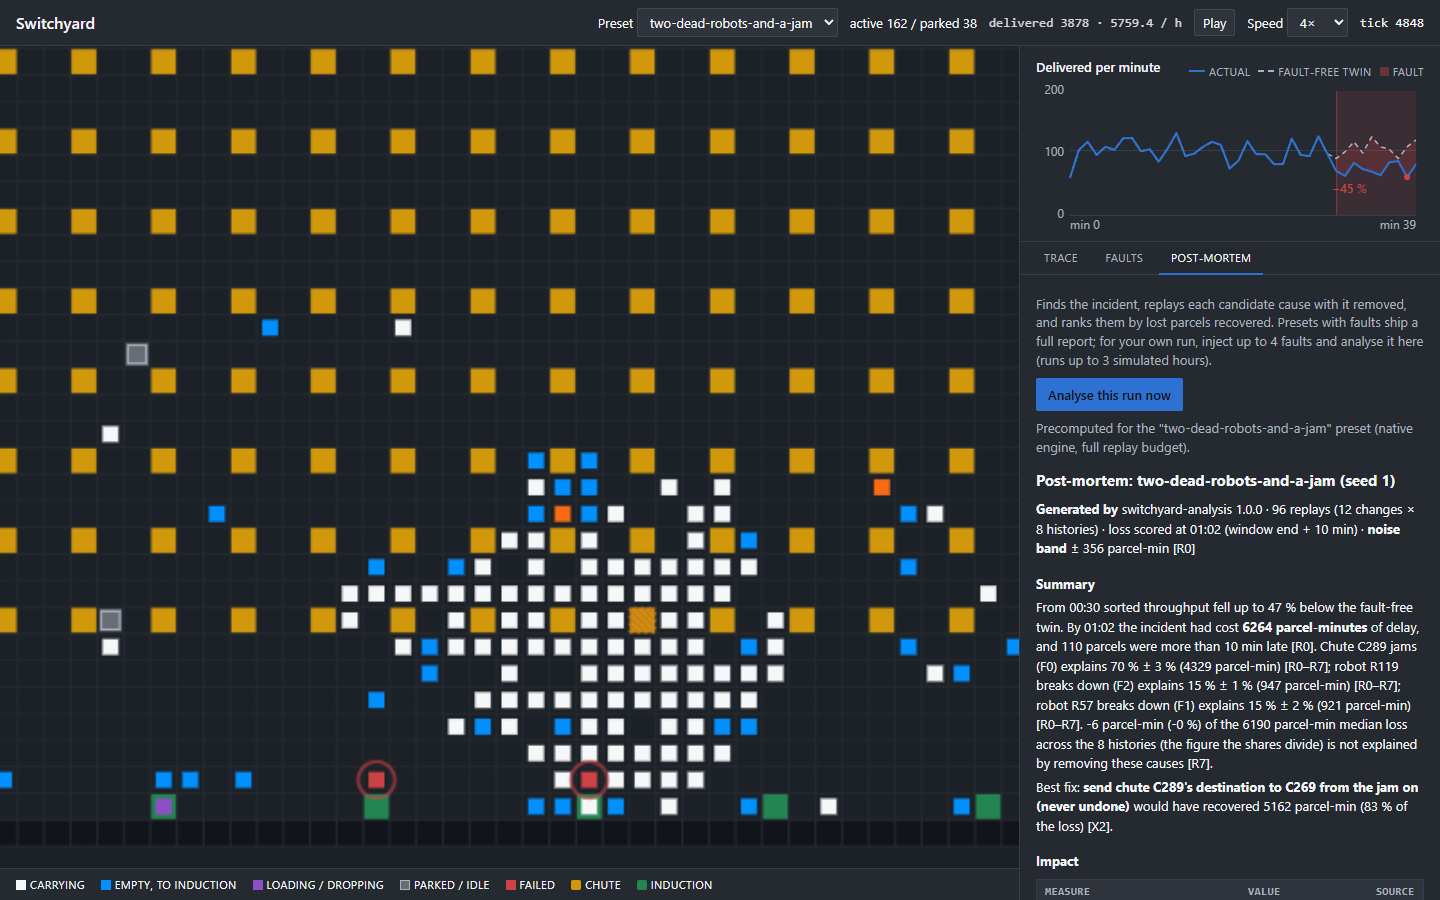
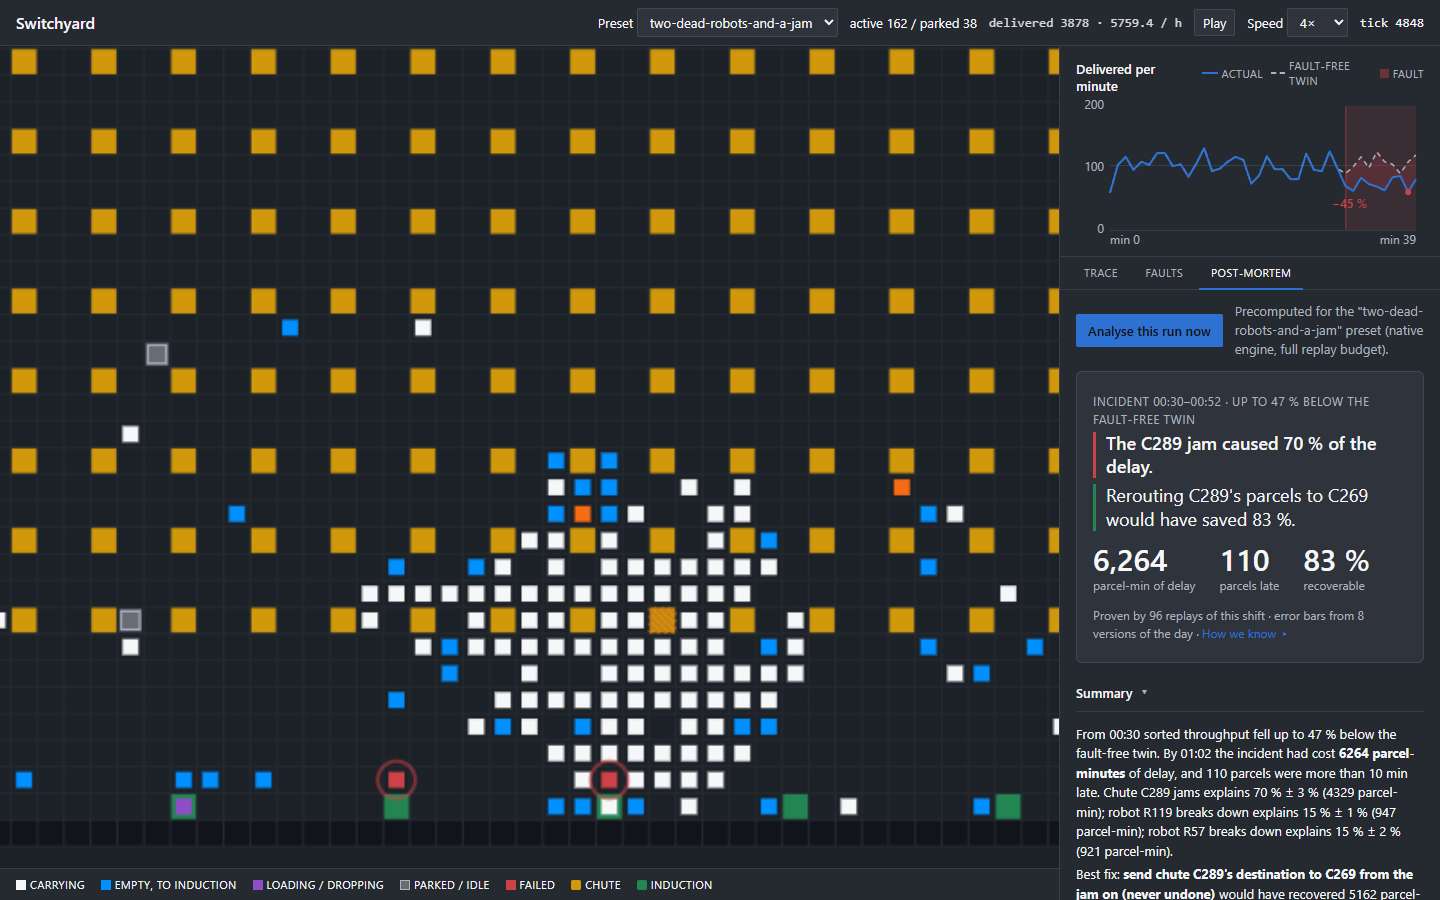
fix: resolve CP1 merge conflicts and retake the framed screenshot (review on #40). Refs #40

diff --git a/viewer/src/ui/app.css b/viewer/src/ui/app.css
@@ -47,13 +47,8 @@ button, select, input { font: inherit; color: inherit; }
 
 .row { display: flex; gap: 8px; margin-bottom: 12px; }
 .row input { flex: 1; min-width: 0; }
-<<<<<<< HEAD
 input, select { background: var(--bg); border: 1px solid var(--border-strong); border-radius: var(--radius-control); padding: 4px 8px; }
-button.primary, .row button, #panel-postmortem button { background: var(--accent); color: var(--wall); border: 0; border-radius: var(--radius-control); padding: 8px 12px; font-weight: 600; cursor: pointer; }
-=======
-input, select { background: var(--bg); border: 1px solid var(--border-strong); border-radius: 4px; padding: 5px 8px; }
-button.primary, .row button, #panel-postmortem > button { background: var(--accent); color: var(--wall); border: 0; border-radius: 4px; padding: 6px 12px; font-weight: 600; cursor: pointer; }
->>>>>>> origin/main
+button.primary, .row button, #panel-postmortem > button { background: var(--accent); color: var(--wall); border: 0; border-radius: var(--radius-control); padding: 8px 12px; font-weight: 600; cursor: pointer; }
 button:disabled { opacity: 0.6; cursor: default; }
 .note { margin: 8px 0; color: var(--text-muted); font-size: 13px; line-height: 1.45; }
 .note.error, .err { color: var(--danger); }

diff --git a/viewer/src/theme.ts b/viewer/src/theme.ts
@@ -24,7 +24,6 @@ export const theme = {
 
   /** Sidebar chrome. Applied as CSS custom properties by applyThemeVars(). */
   ui: {
-<<<<<<< HEAD
     panel: "#252A31",
     panelRaised: "#2F343C",
     border: "#383E47",
@@ -37,7 +36,7 @@ export const theme = {
     ok: "#238551",
     badgeBg: "#3a2410",
     badgeText: "#EC9A3C",
-    sidebarWidth: 420,
+    sidebarWidth: 380,
     font: 'system-ui, -apple-system, "Segoe UI", Roboto, sans-serif',
     fontMono: 'ui-monospace, Consolas, "SF Mono", monospace',
     fsCaption: 12,
@@ -54,21 +53,6 @@ export const theme = {
     s6: 32,
     radiusCard: 2,
     radiusControl: 2,
-=======
-    panel: "#262d3d",
-    panelRaised: "#2e3649",
-    border: "#343d52",
-    borderStrong: "#44506b",
-    text: "#e6e9ef",
-    textMuted: "#9aa6bf",
-    accent: "#5aa9e6",
-    danger: "#e0524f",
-    warn: "#f0a04b",
-    ok: "#4fae8b",
-    badgeBg: "#7a4b12",
-    badgeText: "#ffd9a0",
-    sidebarWidth: 380,
->>>>>>> origin/main
   },
 
   /** Below this viewport width the sidebar drops under the floor (mirrored in app.css). */
